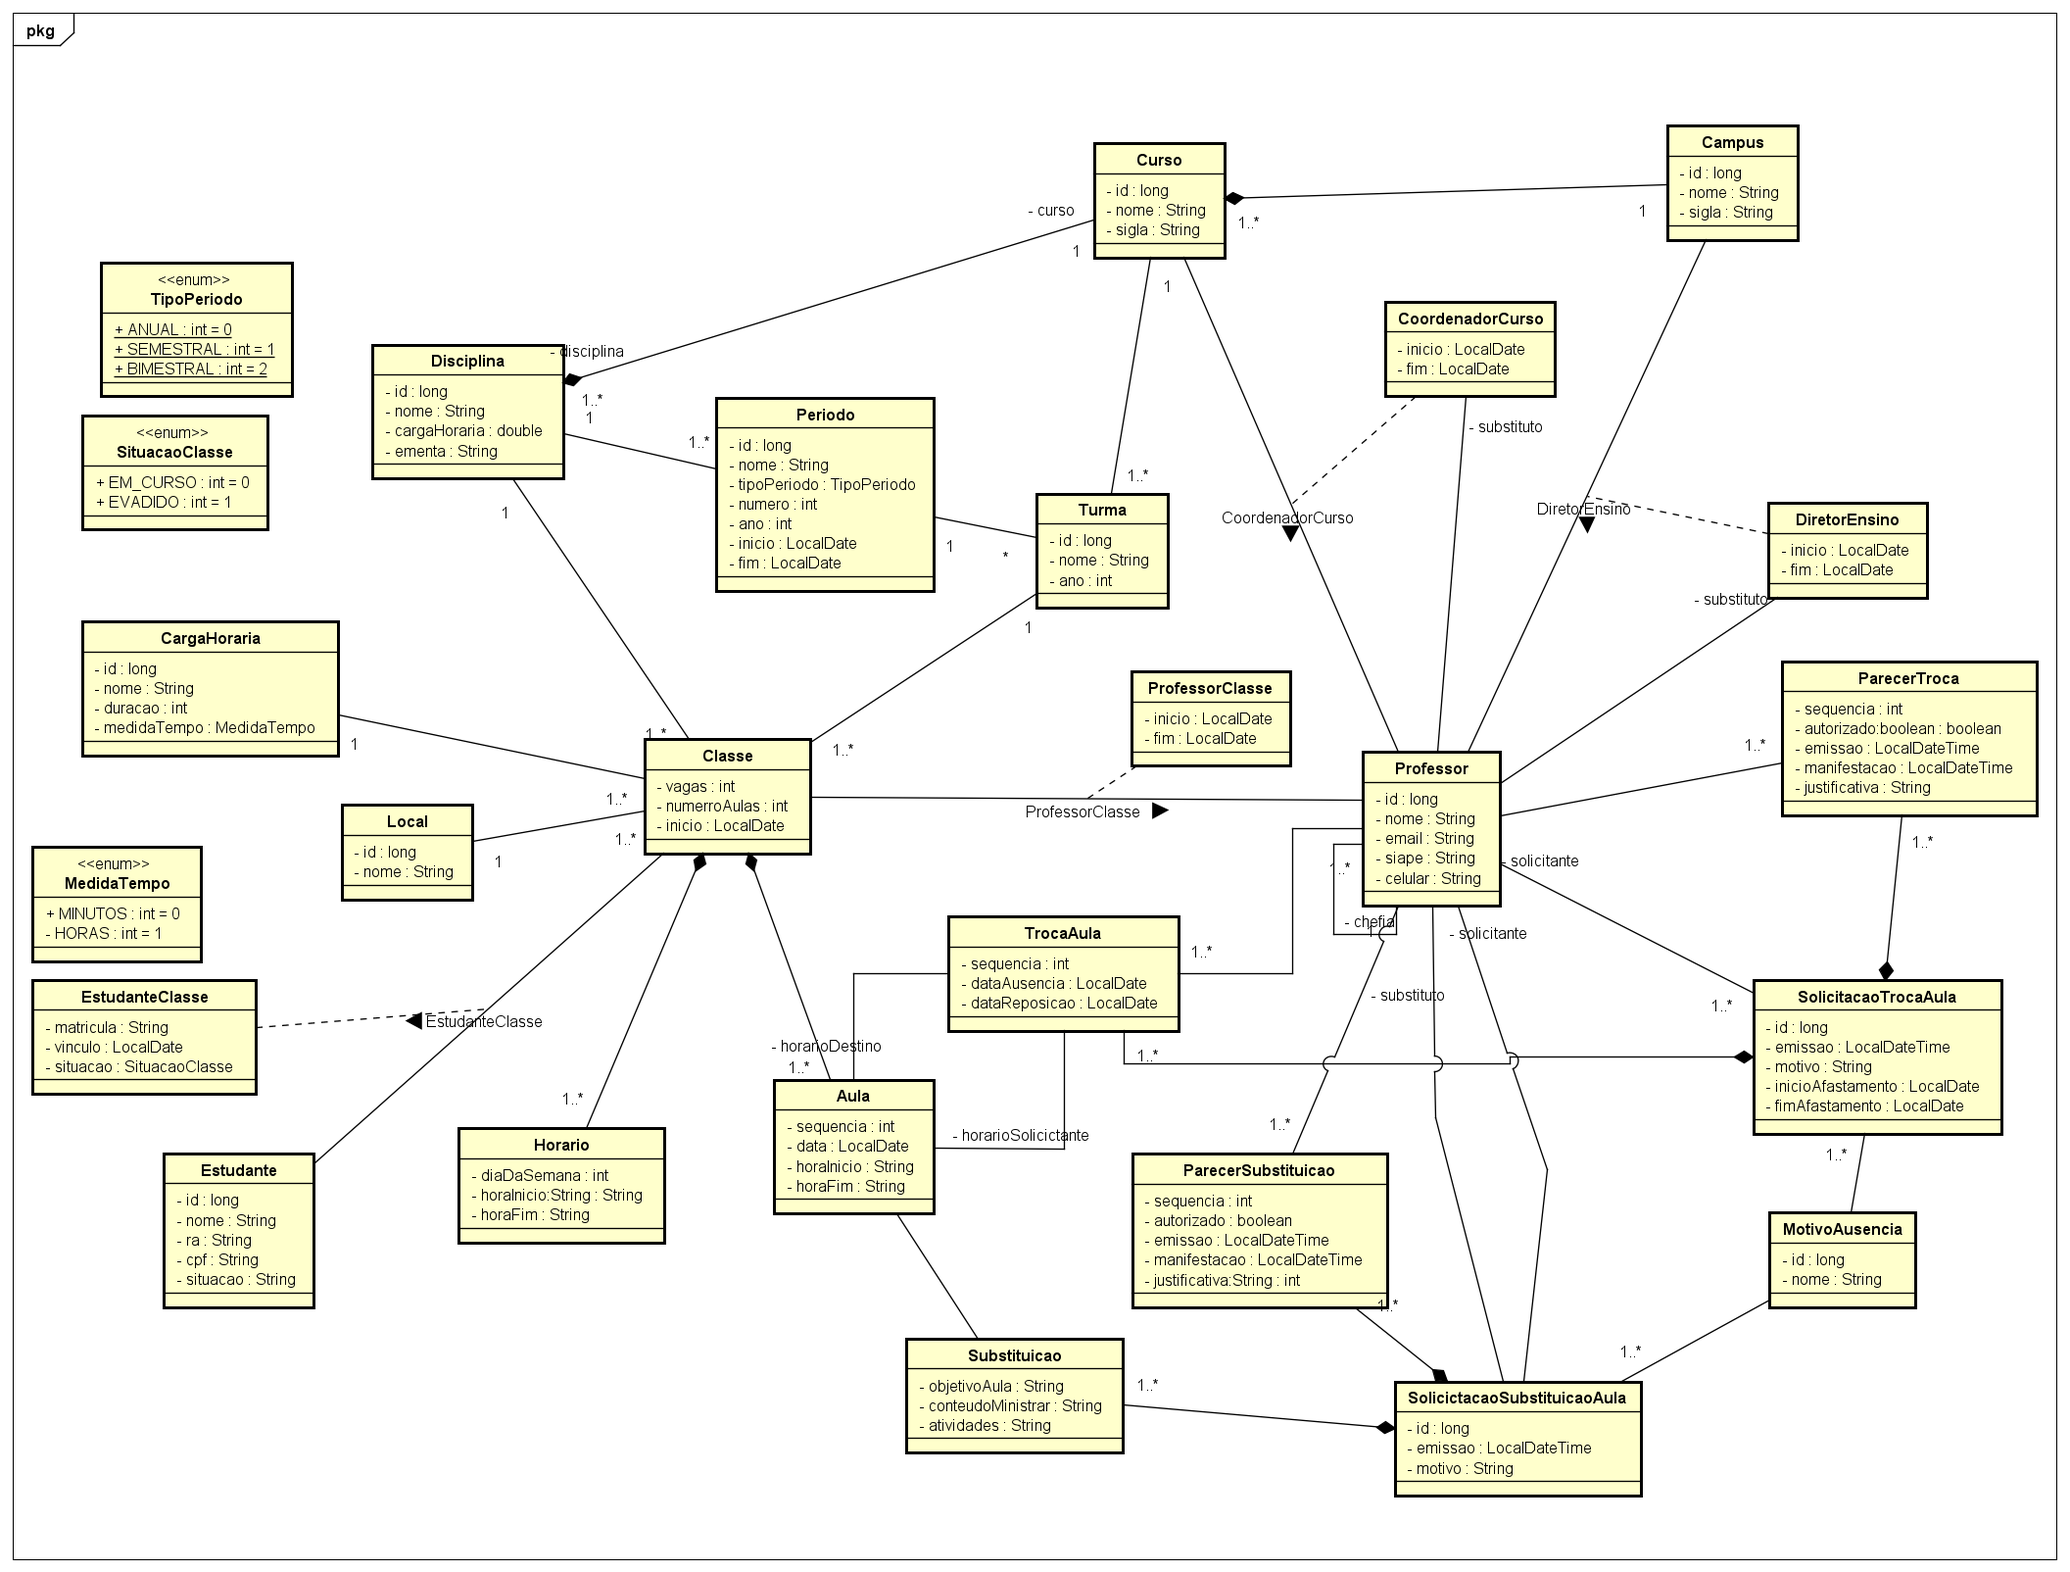
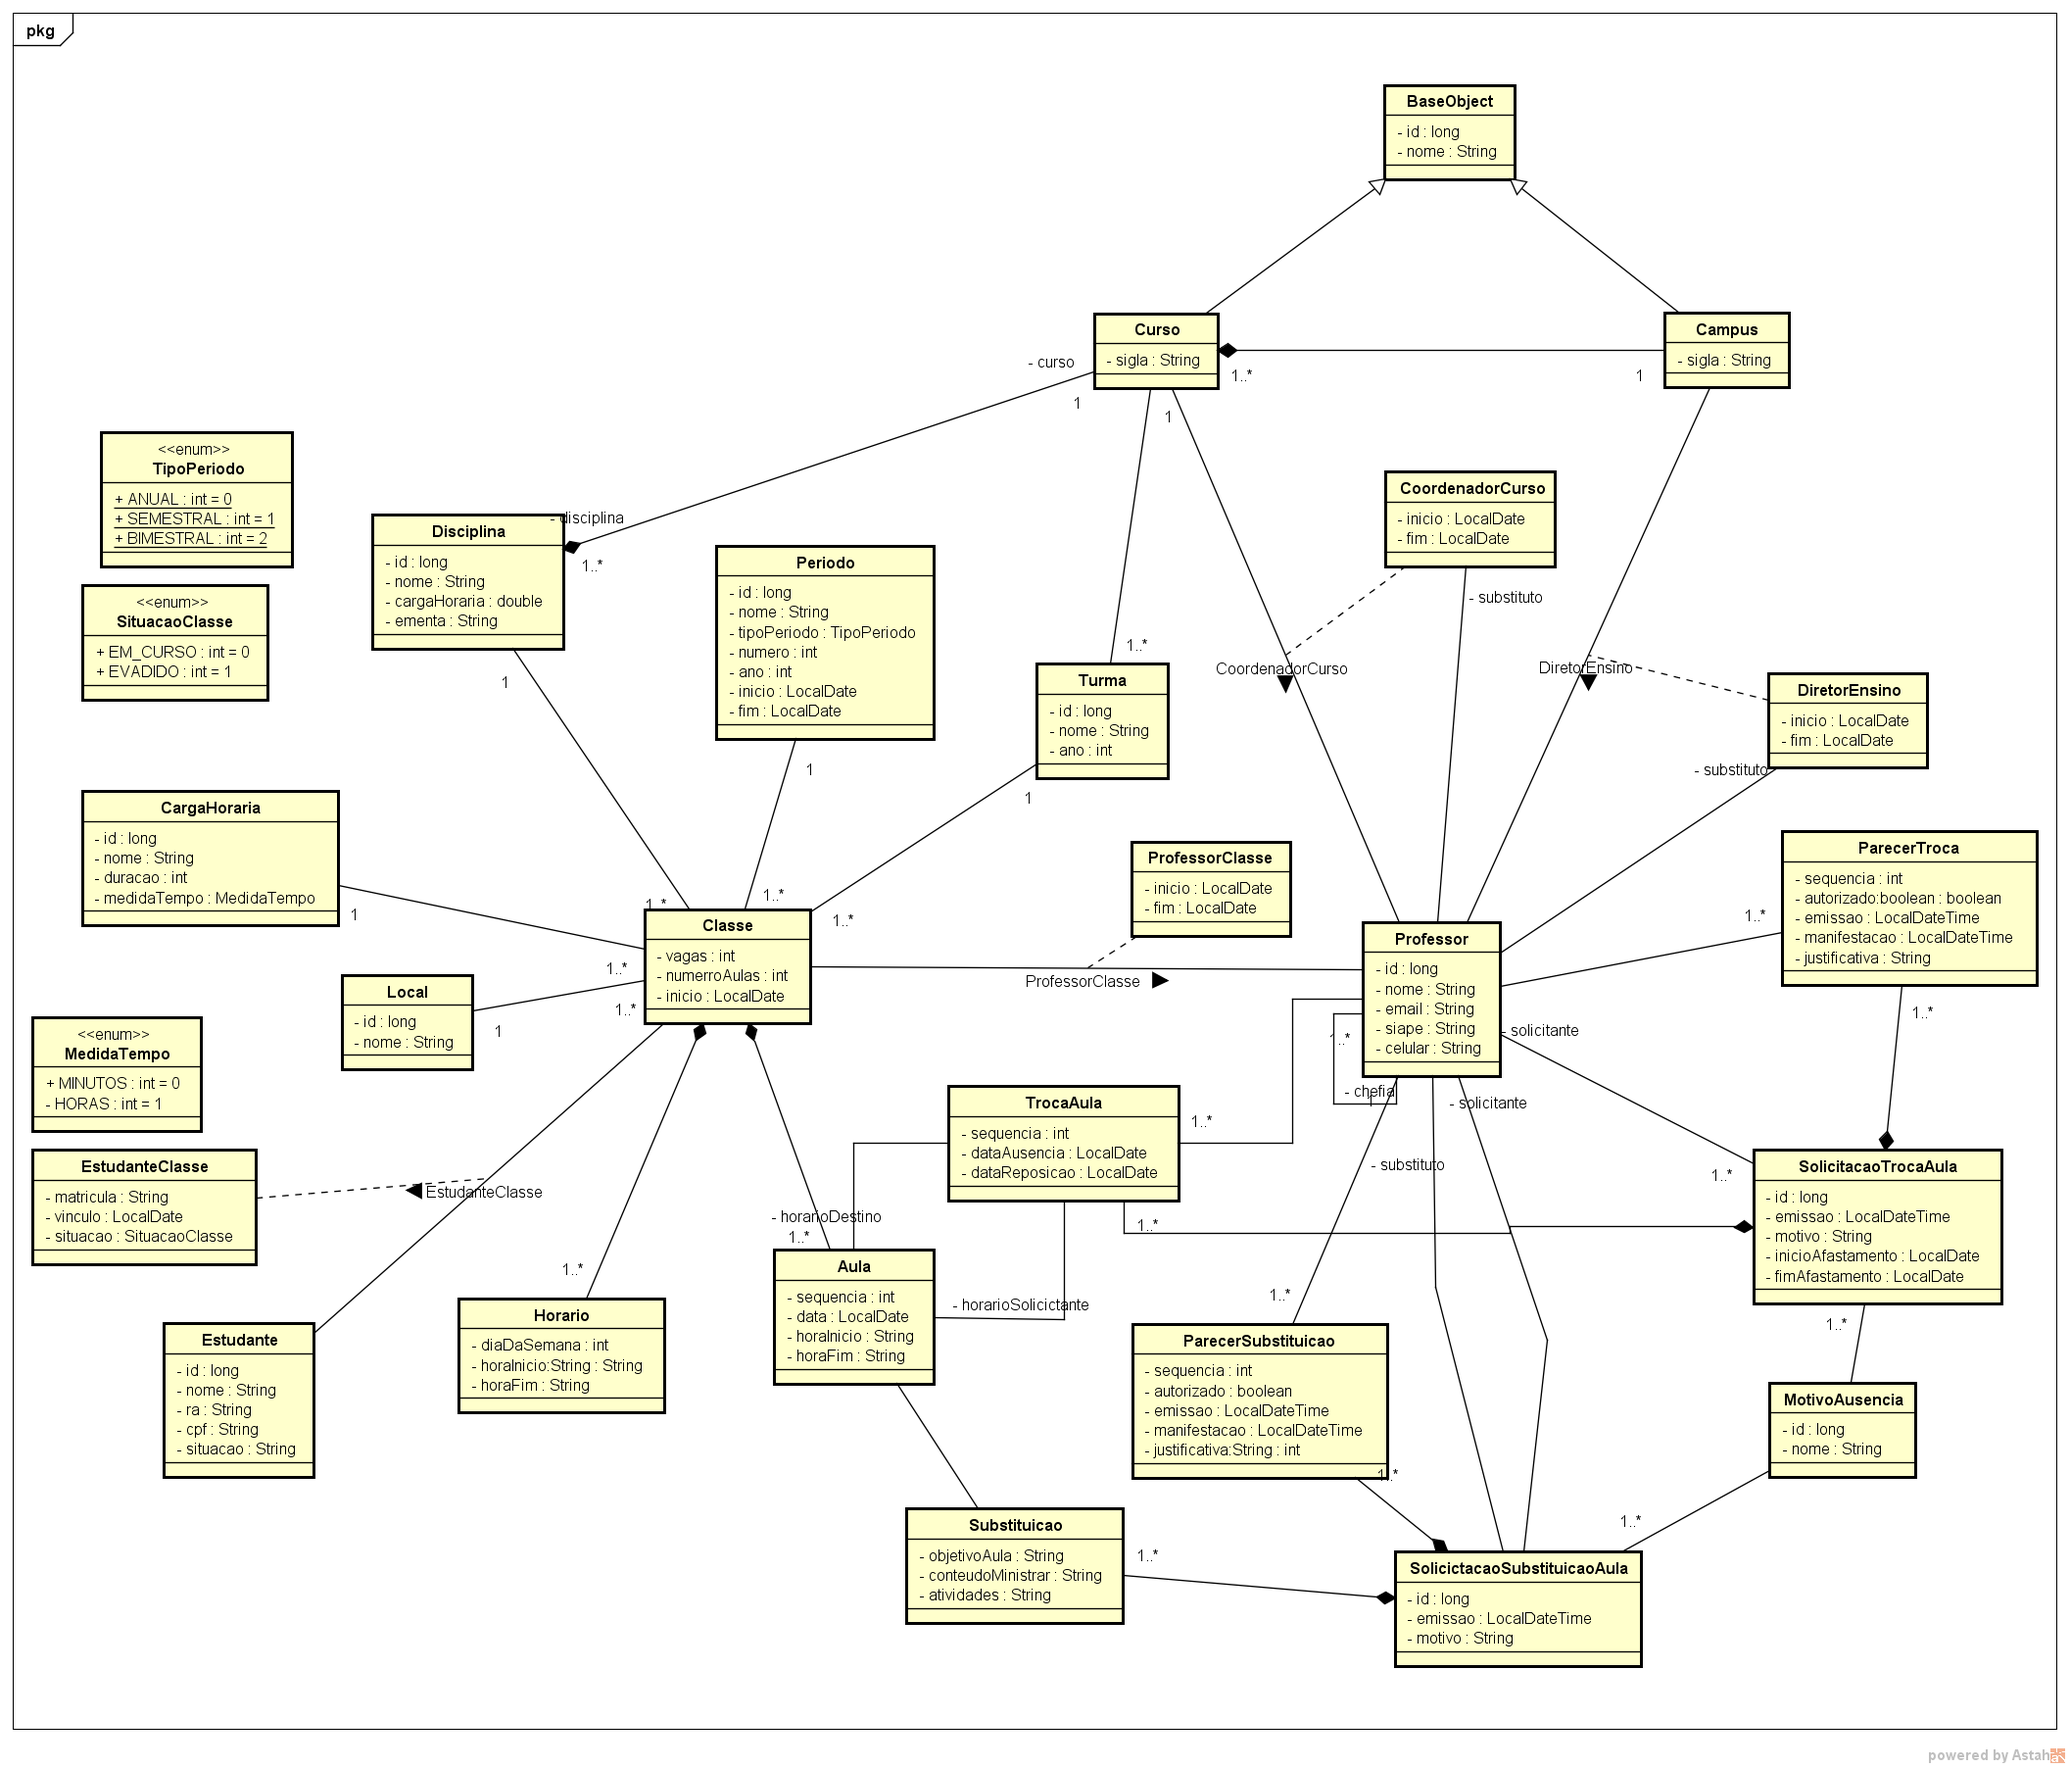
atualização de relacionamentos

diff --git a/src/main/java/br/edu/ifms/aula/periodo/PeriodoController.java b/src/main/java/br/edu/ifms/aula/periodo/PeriodoController.java
@@ -5,19 +5,7 @@
 package br.edu.ifms.aula.periodo;
 
 import br.edu.ifms.arch.controller.AbstractSimpleController;
-import br.edu.ifms.aula.disciplina.*;
-import jakarta.validation.Valid;
 import java.net.URI;
-import java.util.List;
-import org.springframework.beans.factory.annotation.Autowired;
-import org.springframework.http.ResponseEntity;
-import org.springframework.transaction.annotation.Transactional;
-import org.springframework.web.bind.annotation.DeleteMapping;
-import org.springframework.web.bind.annotation.GetMapping;
-import org.springframework.web.bind.annotation.PathVariable;
-import org.springframework.web.bind.annotation.PostMapping;
-import org.springframework.web.bind.annotation.PutMapping;
-import org.springframework.web.bind.annotation.RequestBody;
 import org.springframework.web.bind.annotation.RequestMapping;
 import org.springframework.web.bind.annotation.RestController;
 import org.springframework.web.util.UriComponentsBuilder;

diff --git a/src/main/java/br/edu/ifms/aula/periodo/Periodo.java b/src/main/java/br/edu/ifms/aula/periodo/Periodo.java
@@ -5,12 +5,10 @@
 package br.edu.ifms.aula.periodo;
 
 import br.edu.ifms.arch.BaseObject;
-import br.edu.ifms.aula.disciplina.Disciplina;
 import jakarta.persistence.Column;
 import jakarta.persistence.Entity;
 import jakarta.persistence.EnumType;
 import jakarta.persistence.Enumerated;
-import jakarta.persistence.ManyToOne;
 import jakarta.persistence.SequenceGenerator;
 import java.time.LocalDate;
 import lombok.AllArgsConstructor;
@@ -47,7 +45,4 @@ public class Periodo extends BaseObject {
     
     @Column(columnDefinition = "time with time zone not null")
     private LocalDate fim;
-    
-    @ManyToOne(optional = false)
-    private Disciplina disciplina;
 }

diff --git a/src/main/java/br/edu/ifms/aula/turma/TurmaMapper.java b/src/main/java/br/edu/ifms/aula/turma/TurmaMapper.java
@@ -3,7 +3,6 @@ package br.edu.ifms.aula.turma;
 import br.edu.ifms.arch.BaseObjectMapper;
 import br.edu.ifms.arch.ISimpleMapper;
 import br.edu.ifms.aula.curso.CursoMapper;
-import br.edu.ifms.aula.periodo.PeriodoMapper;
 import org.mapstruct.InheritConfiguration;
 import org.mapstruct.Mapper;
 import org.mapstruct.Mapping;
@@ -12,7 +11,7 @@ import org.mapstruct.factory.Mappers;
 
 @Mapper(
         config = BaseObjectMapper.class,
-        uses = { CursoMapper.class, PeriodoMapper.class }
+        uses = { CursoMapper.class }
 )
 public interface TurmaMapper extends ISimpleMapper<Turma, TurmaDto, TurmaForm> {
 

diff --git a/src/main/java/br/edu/ifms/aula/periodo/PeriodoMapper.java b/src/main/java/br/edu/ifms/aula/periodo/PeriodoMapper.java
@@ -6,7 +6,6 @@ package br.edu.ifms.aula.periodo;
 
 import br.edu.ifms.arch.BaseObjectMapper;
 import br.edu.ifms.arch.ISimpleMapper;
-import br.edu.ifms.aula.disciplina.DisciplinaMapper;
 import org.mapstruct.InheritConfiguration;
 import org.mapstruct.Mapper;
 import org.mapstruct.MappingTarget;
@@ -17,8 +16,7 @@ import org.mapstruct.factory.Mappers;
  * @author 1513003
  */
 @Mapper(
-        config = BaseObjectMapper.class,
-        uses = { DisciplinaMapper.class }
+        config = BaseObjectMapper.class
 )
 public interface PeriodoMapper extends ISimpleMapper<Periodo, PeriodoDto, PeriodoForm> {
     

diff --git a/src/main/java/br/edu/ifms/aula/turma/Turma.java b/src/main/java/br/edu/ifms/aula/turma/Turma.java
@@ -2,7 +2,6 @@ package br.edu.ifms.aula.turma;
 
 import br.edu.ifms.arch.BaseObject;
 import br.edu.ifms.aula.curso.Curso;
-import br.edu.ifms.aula.periodo.Periodo;
 import jakarta.persistence.Column;
 import jakarta.persistence.Entity;
 import jakarta.persistence.ManyToOne;
@@ -24,11 +23,7 @@ public class Turma extends BaseObject {
 
     @Column(columnDefinition = "integer not null")
     private int ano;
-
+    
     @ManyToOne
     private Curso curso;
-
-    @ManyToOne
-    private Periodo periodo;
-
 }

diff --git a/src/main/java/br/edu/ifms/aula/turma/TurmaForm.java b/src/main/java/br/edu/ifms/aula/turma/TurmaForm.java
@@ -2,7 +2,6 @@ package br.edu.ifms.aula.turma;
 
 import br.edu.ifms.arch.dto.AdapterBaseObjectForm;
 import br.edu.ifms.aula.curso.CursoDto;
-import br.edu.ifms.aula.periodo.PeriodoDto;
 import jakarta.validation.constraints.Min;
 import jakarta.validation.constraints.NotNull;
 import lombok.AllArgsConstructor;
@@ -23,8 +22,5 @@ public class TurmaForm extends AdapterBaseObjectForm {
     
     @NotNull
     private CursoDto curso;
-    
-    @NotNull
-    private PeriodoDto periodo;
 
 }

diff --git a/src/main/java/br/edu/ifms/aula/periodo/PeriodoForm.java b/src/main/java/br/edu/ifms/aula/periodo/PeriodoForm.java
@@ -5,7 +5,6 @@
 package br.edu.ifms.aula.periodo;
 
 import br.edu.ifms.arch.dto.AdapterBaseObjectForm;
-import br.edu.ifms.aula.disciplina.DisciplinaDto;
 import jakarta.validation.constraints.Future;
 import jakarta.validation.constraints.FutureOrPresent;
 import jakarta.validation.constraints.Min;
@@ -43,6 +42,4 @@ public class PeriodoForm extends AdapterBaseObjectForm {
     @NotNull
     @Future
     private LocalDate fim;
-    
-    private DisciplinaDto disciplina;
 }

diff --git a/src/main/java/br/edu/ifms/aula/periodo/PeriodoDto.java b/src/main/java/br/edu/ifms/aula/periodo/PeriodoDto.java
@@ -5,7 +5,6 @@
 package br.edu.ifms.aula.periodo;
 
 import br.edu.ifms.arch.dto.AdapterBaseObjectDto;
-import br.edu.ifms.aula.disciplina.DisciplinaDto;
 import java.time.LocalDate;
 import lombok.EqualsAndHashCode;
 import lombok.Getter;
@@ -27,6 +26,4 @@ public class PeriodoDto extends AdapterBaseObjectDto {
     private Integer ano;
     private LocalDate inicio;
     private LocalDate fim;
-    
-    private DisciplinaDto disciplina;
 }

diff --git a/src/main/java/br/edu/ifms/aula/turma/TurmaDto.java b/src/main/java/br/edu/ifms/aula/turma/TurmaDto.java
@@ -1,7 +1,6 @@
 package br.edu.ifms.aula.turma;
 
 import br.edu.ifms.arch.dto.AdapterBaseObjectDto;
-import br.edu.ifms.aula.periodo.PeriodoDto;
 import lombok.AllArgsConstructor;
 import lombok.EqualsAndHashCode;
 import lombok.Getter;
@@ -18,6 +17,4 @@ public class TurmaDto extends AdapterBaseObjectDto {
     private int ano;
     private String nomeCurso;
     private String nomeCampus;
-    
-    private PeriodoDto periodo;
 }
